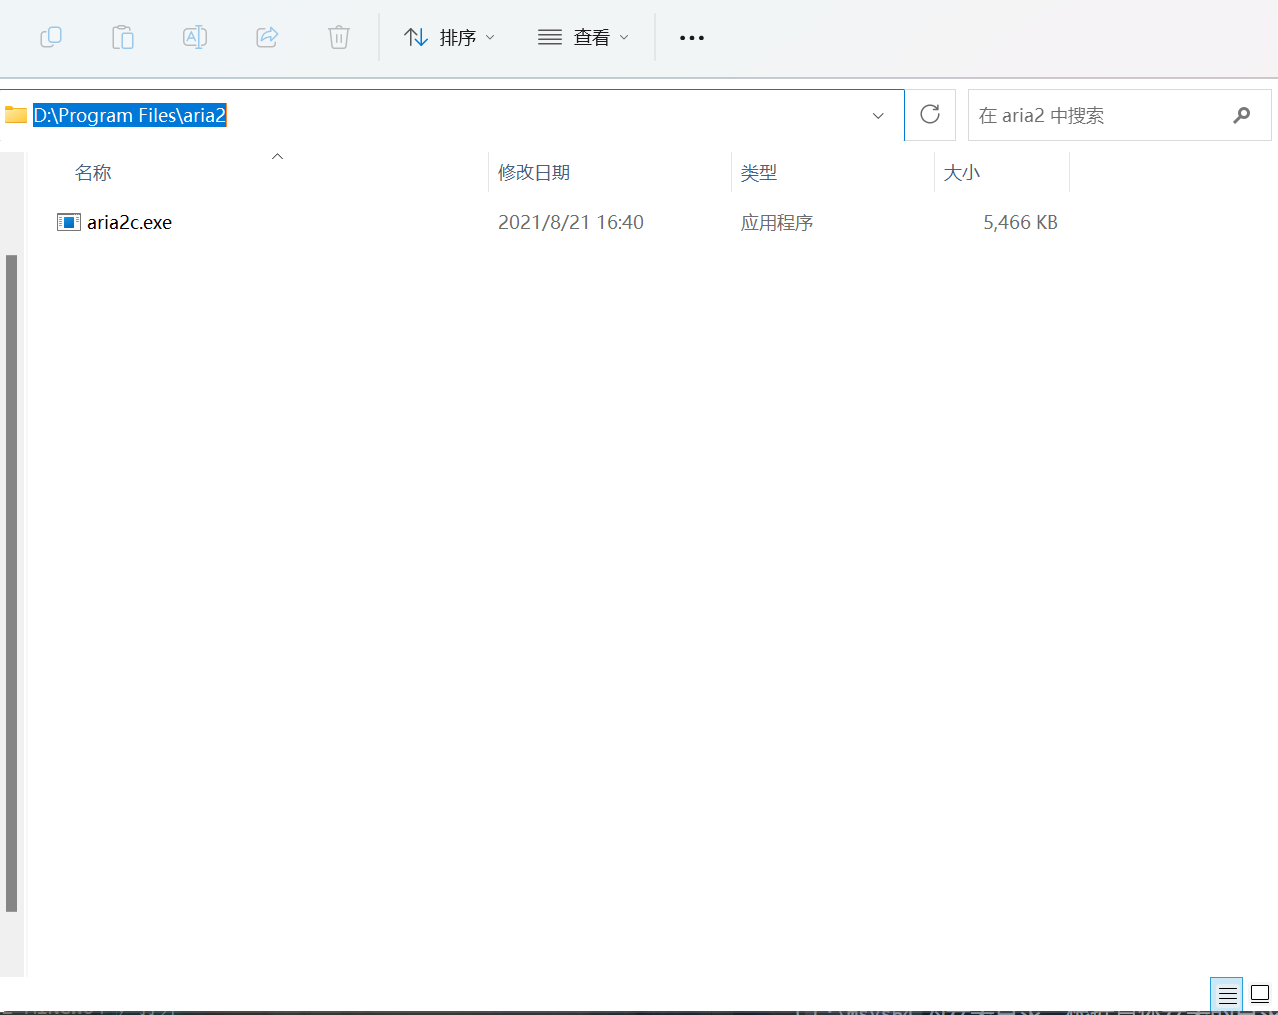
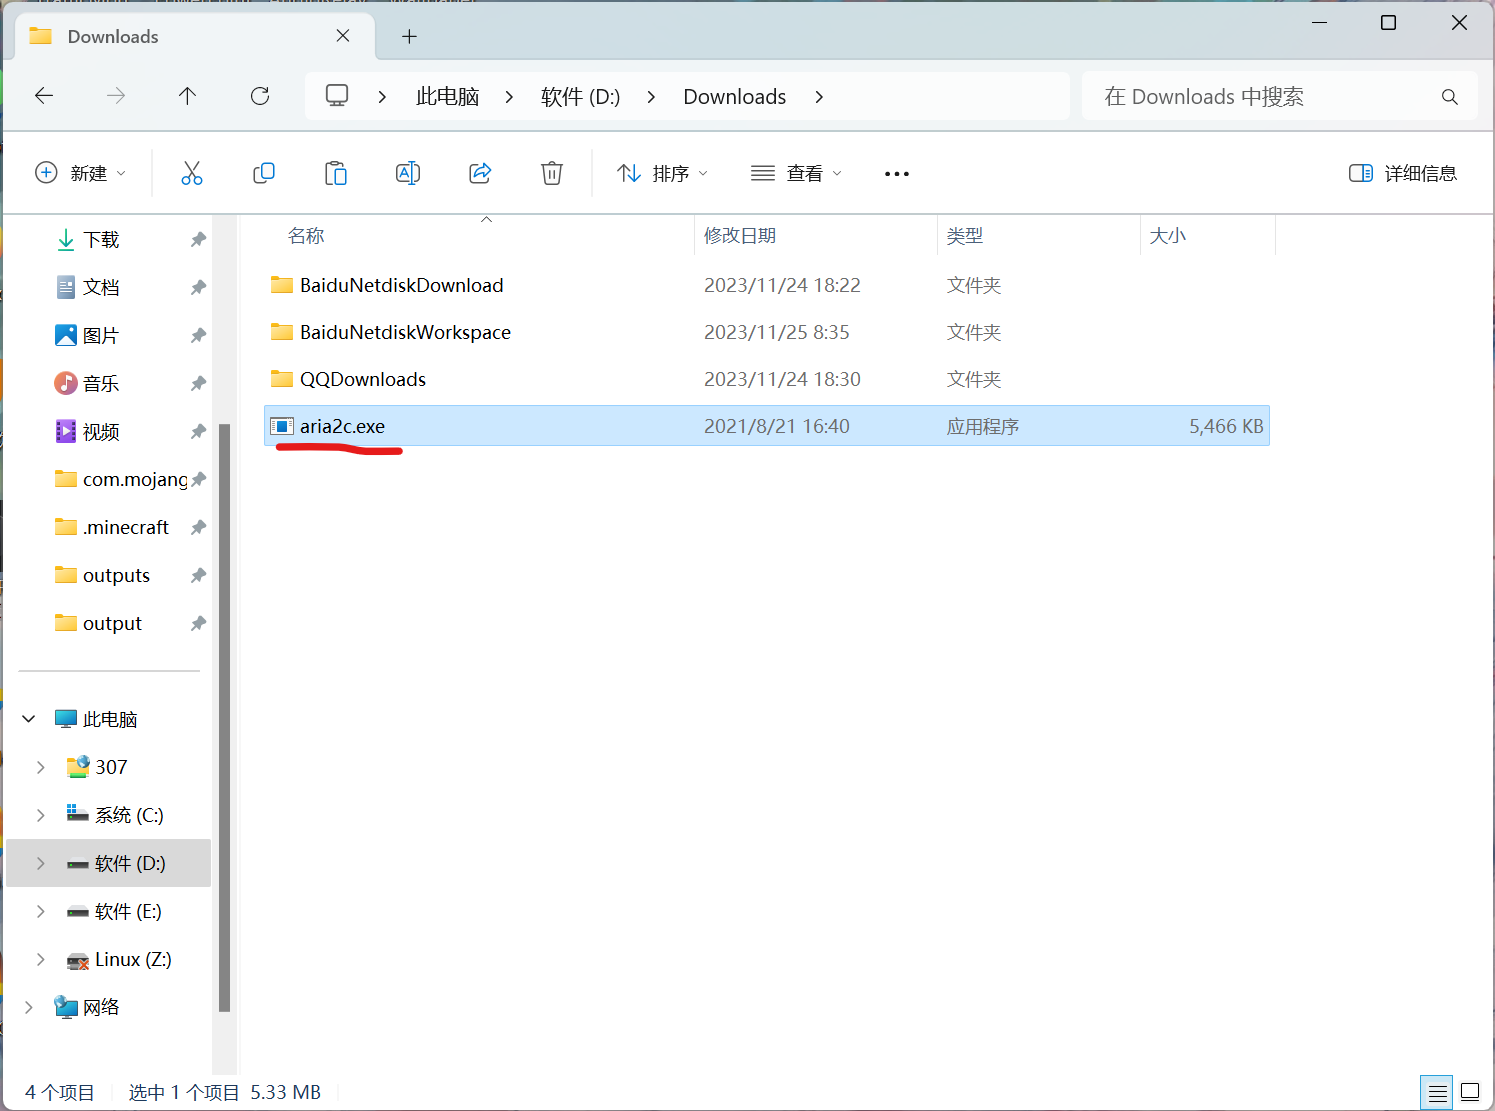
commit

diff --git a/term-sd/README_config_env.md b/term-sd/README_config_env.md
@@ -77,14 +77,9 @@
 
 ### 4、安装aria2  
 前往[aira2官网](http://aria2.github.io/)  
-点击`Download version`进入下载页面，找到`aria2-xx版本-win-64bit-build1.zip`点击下载，解压得到`aria2c.exe`
-在系统的某个位置创建一个文件夹，得到一个路径，比如D:\Program Files\aria2，记下来，将aria2c.exe放入文件夹  
-按下“win+R”快捷键，打开运行对话框，输入指令：  
-```
-sysdm.cpl
-```
-打开`系统属性`窗体后，依次点击选项卡`高级`->`环境变量`  
-在`系统变量`部分点双击`Path`，点击`新建`，把刚刚记下来的路径粘贴上去，然后一直点确定直至完成  
+点击`Download version`进入下载页面，找到`aria2-xx版本-win-64bit-build1.zip`  
+点击下载，解压得到一个`aria2c.exe`（Windows系统需要启用`显示文件扩展名`，才能看见文件的扩展名）  
+然后打开MSYS2的安装路径（刚刚安装的路径是`C:\msys64`），然后进入`usr`文件夹，再进入`bin`文件夹，将aria2c.exe放入文件夹中  
 
 &nbsp;
 <div align="center">
@@ -95,14 +90,8 @@ sysdm.cpl
 ![aria2](assets/config_env/29.png)  
 `把aria2c.exe解压出来`  
 ![aria2](assets/config_env/30.png)  
-`创建一个文件夹，然后放进去，再复制这个文件夹的路径`  
 ![aria2](assets/config_env/31.png)  
-`按下“win+R”快捷键，运行sysdm.cpl`  
-![aria2](assets/config_env/32.png)  
-![aria2](assets/config_env/33.png)  
-双击`Path`  
-![aria2](assets/config_env/34.png)  
-`点击“新建”，把刚刚记下来的路径粘贴上去，再点确定保存`  
+`把`aria2c.exe`复制到`bin`文件夹中`   
 
 </div>
 
@@ -126,11 +115,11 @@ C:\msys64\msys2_shell.cmd -defterm -no-start -use-full-path -here -mingw64
 &nbsp;
 <div align="center">
 
-![Terminal](assets/config_env/35.png)  
-![Terminal](assets/config_env/36.png)  
-![Terminal](assets/config_env/37.png)  
+![Terminal](assets/config_env/32.png)  
+![Terminal](assets/config_env/33.png)  
+![Terminal](assets/config_env/34.png)  
 `红色划线处为必填选项，蓝色划线处为选填项，填完后保存`  
-![Terminal](assets/config_env/38.png)  
+![Terminal](assets/config_env/35.png)  
 `启动MinGW64`  
 
 </div>
@@ -146,7 +135,7 @@ pacman -Sy
 &nbsp;
 <div align="center">
 
-![msys2-config](assets/config_env/39.png)  
+![msys2-config](assets/config_env/36.png)  
 
 </div>
 
@@ -159,7 +148,7 @@ pacman -S dialog
 &nbsp;
 <div align="center">
 
-![dialog](assets/config_env/40.png)  
+![dialog](assets/config_env/37.png)  
 
 </div>
 
@@ -172,9 +161,9 @@ pacman -S dialog
 打开Windows文件管理器，进入D盘，E盘之类的盘符（不要进入C盘，小心安装ai软件后C盘的空间消失），选择合适的安装路径（或者创建一个文件夹并进入），右键文件管理器空白处，选择“在终端中打开”（不要在桌面右键打开终端，因为终端启动的位置决定了Term-SD产生文件的位置，除非会使用cd命令切换路径），然后启动配置好的MinGW64（之后都需要用MinGW64启动Term-SD）  
 <div align="center">
 
-![termsd](assets/config_env/41.png)  
+![termsd](assets/config_env/38.png)  
 `右键文件管理器空白处，选择“在终端中打开”`
-![termsd](assets/config_env/42.png)  
+![termsd](assets/config_env/39.png)  
 `终端打开的位置决定了接下来下载文件的路径，也可以用“cd”命令切换到别的目录`
 
 </div>
@@ -187,7 +176,7 @@ aria2c https://raw.githubusercontent.com/licyk/sd-webui-script/main/term-sd.sh &
 &nbsp;
 <div align="center">
 
-![termsd](assets/config_env/43.png)  
+![termsd](assets/config_env/40.png)  
 
 </div>
 
@@ -198,7 +187,7 @@ aria2c https://gitlab.com/licyk/term-sd/-/raw/main/term-sd.sh && chmod +x term-s
 &nbsp;
 <div align="center">
 
-![termsd](assets/config_env/44.png)  
+![termsd](assets/config_env/41.png)  
 
 </div>
 
@@ -213,7 +202,7 @@ aria2c https://gitlab.com/licyk/term-sd/-/raw/main/term-sd.sh && chmod +x term-s
 &nbsp;
 <div align="center">
 
-![termsd](assets/config_env/45.png)  
+![termsd](assets/config_env/42.png)  
 `终端显示的路径决定Term-SD的下载路径和Term-SD安装ai软件的路径`
 
 </div>
